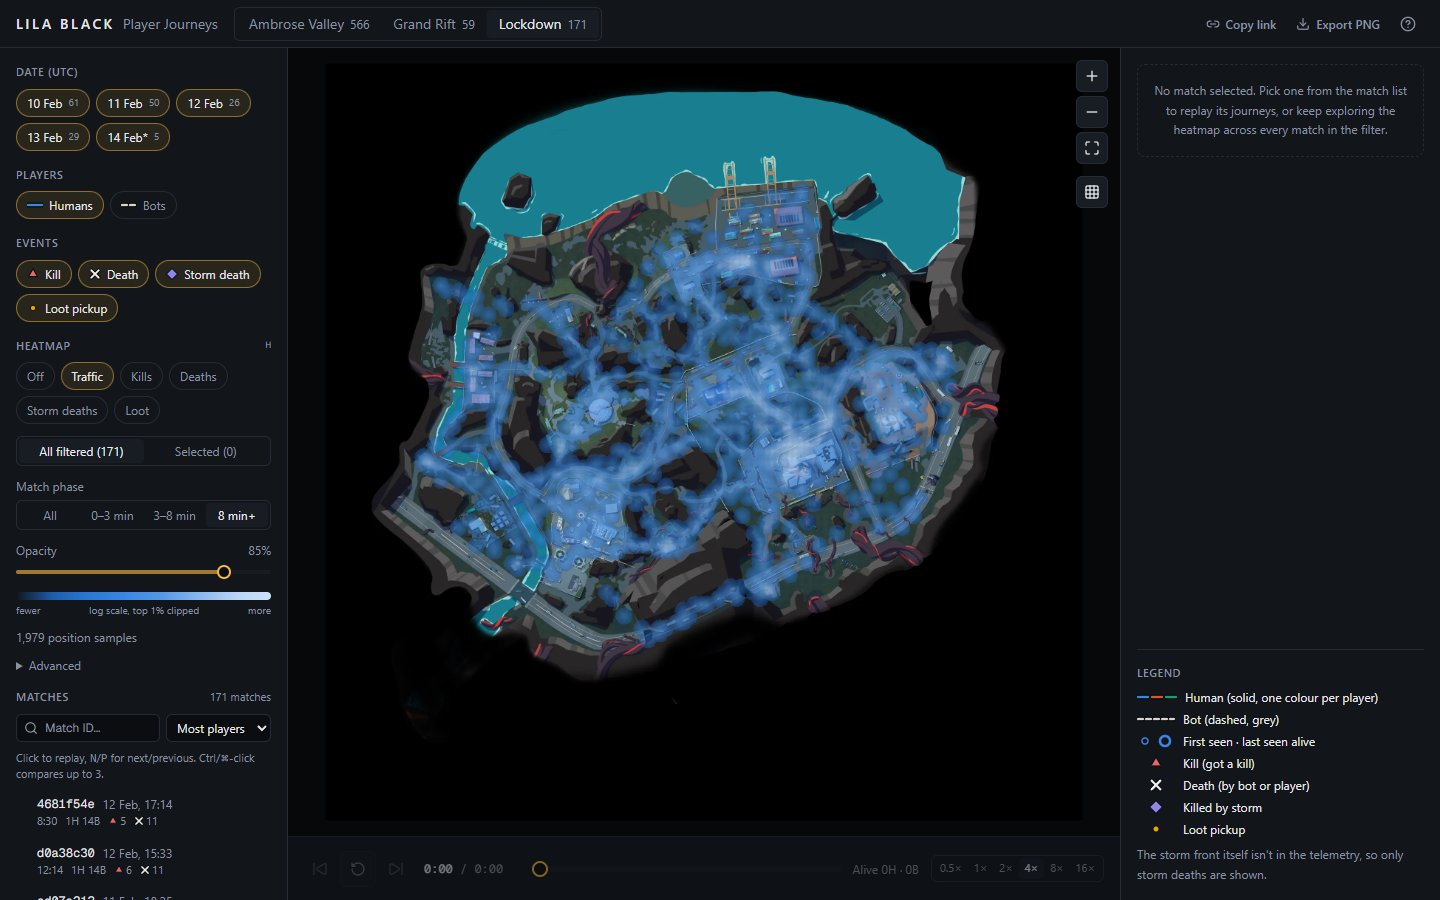
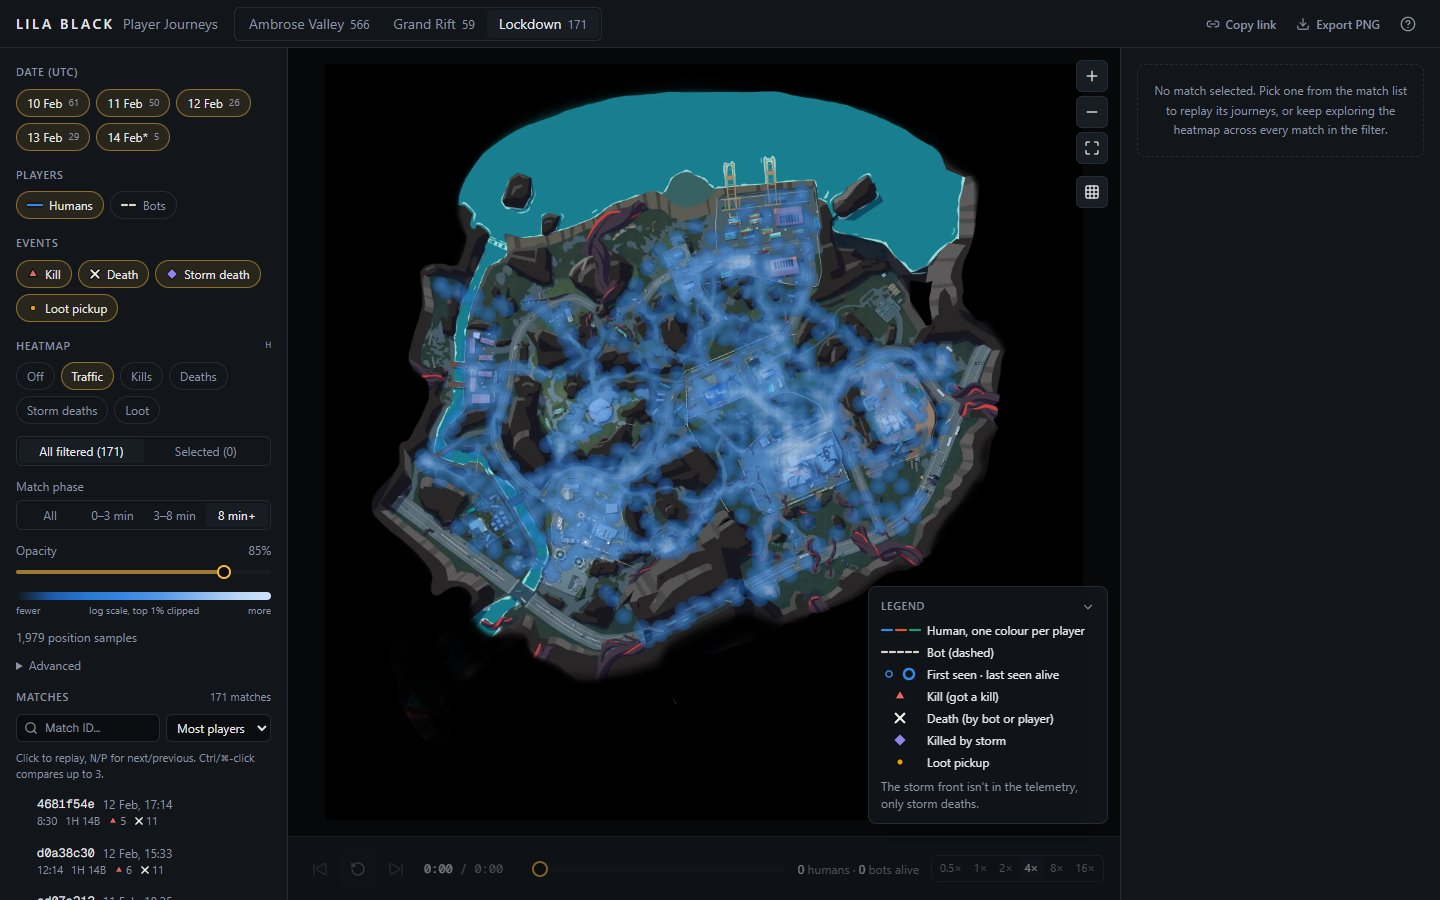
docs: refresh README and screenshots for the final UI
Documents tap-to-open player cards, the on-map legend and zoom-to-player. Re-captures the feature and insight screenshots at 1440x900 with the current layout. Replaces the mobile screenshot, which was taken with headless Chrome below its minimum window width and showed a cropped layout, with a real 375px render.

Changed region(s): [[0.5938, 0.6533, 0.75, 0.9333], [0.7812, 0.7467, 0.9688, 0.9956], [0.5938, 0.9644, 0.625, 0.9956]]

diff --git a/README.md b/README.md
@@ -22,12 +22,12 @@ in Slack as a single link.
 |                      |                                                                                                                                                                                                                                                                              |
 | -------------------- | ---------------------------------------------------------------------------------------------------------------------------------------------------------------------------------------------------------------------------------------------------------------------------- |
 | **Map view**         | Correct minimap per map. Wheel/pinch zoom around the cursor, drag to pan, reset. Sharp at deep zoom (4096 px tiles load on demand)                                                                                                                                           |
-| **Player journeys**  | Humans are solid lines in validated colour-blind-safe colours. Bots are dashed grey underneath. Spawn dots and a "last seen alive" ring for survivors. Hover a path for the player card (outcome, K/D, loot, time alive)                                                     |
+| **Player journeys**  | Humans are solid lines in validated colour-blind-safe colours. Bots are dashed grey underneath. Spawn dots and a "last seen alive" ring for survivors. Hover (or tap) a path for the player card (outcome, K/D, loot, time alive). A collapsible legend sits on the map      |
 | **Event markers**    | Kill ▲, death ✕, storm death ◆ and loot ● use shape _and_ colour. Constant on-screen size at any zoom. Hover for a plain-language description, click to jump playback to that moment                                                                                         |
 | **Filters**          | Map, date (UTC, Feb 14 flagged partial), humans/bots, event types. Match list with ID search and sorting. Ctrl/⌘-click to compare up to 3 matches                                                                                                                            |
 | **Timeline**         | Play/pause, scrub, 0.5×–16×, colour-coded combat ticks on the track (click one to jump to that moment), live count of who's alive. Paths grow and markers appear as the match unfolds                                                                                        |
 | **Heatmaps**         | Traffic, kills, deaths, storm deaths and loot, across all filtered matches or only the selected ones. Slice by match phase (0–3 min, 3–8 min, 8 min+) to separate the opening drop from the extraction and storm endgame. Opacity, bin size and a log-scaled single-hue ramp |
-| **Match panel**      | Start time, length, humans/bots, event totals and survivors. Per-player table with show/hide, plus notes on data quirks                                                                                                                                                      |
+| **Match panel**      | Start time, length, humans/bots, event totals and survivors. Per-player table: click a player to zoom the map to their whole path, hover to highlight it, toggle to hide it. Notes on data quirks                                                                            |
 | **Calibration grid** | World-space grid, axes and the README worked example, drawn through the same transform as the data, with a cursor readout of world coordinates                                                                                                                               |
 | **Share & export**   | The URL holds every setting, including playback time. Copy link (L) and export the current view as PNG (E)                                                                                                                                                                   |
 
